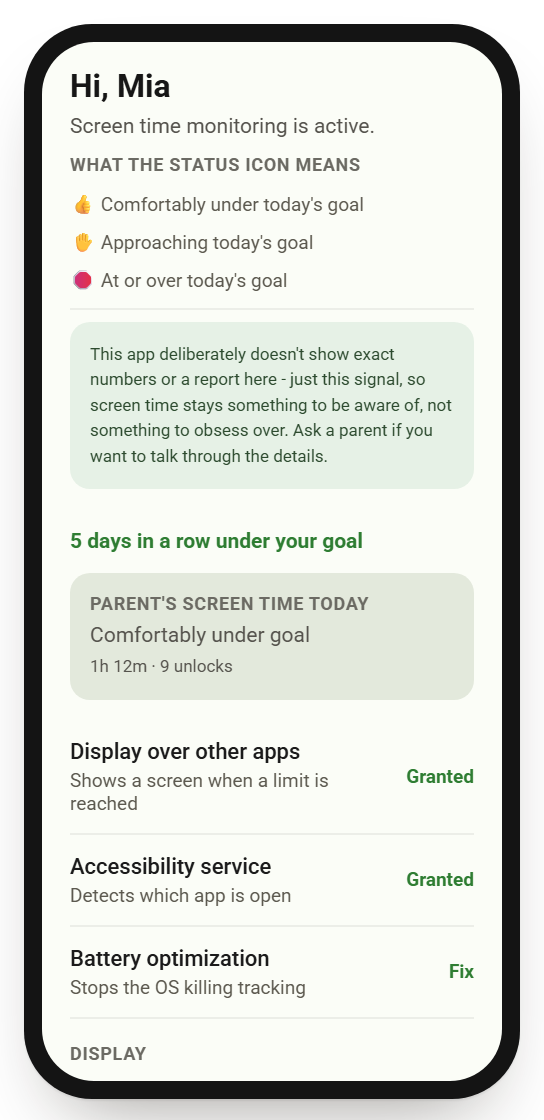
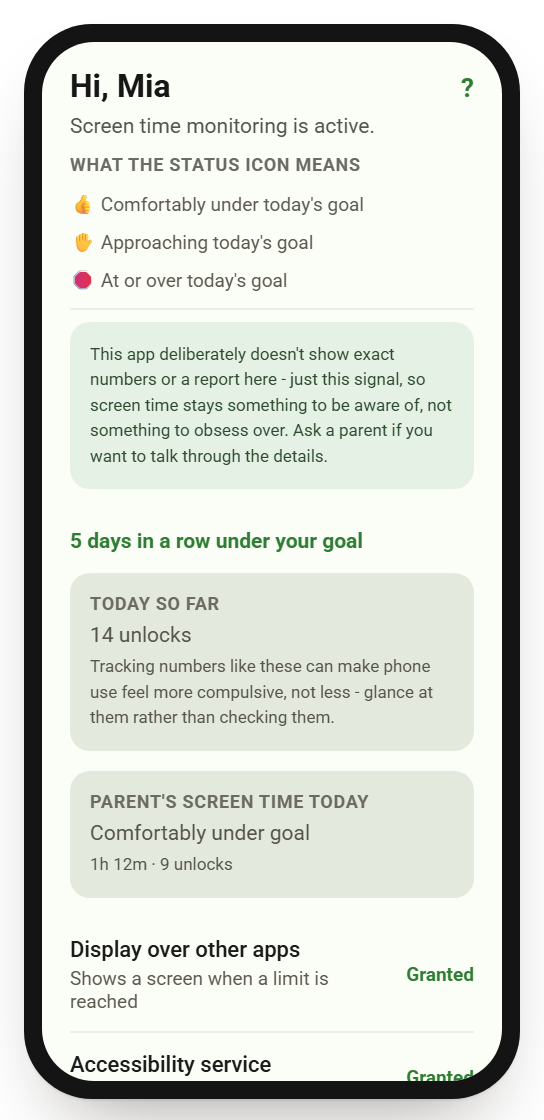
Update the design gallery: help bot, optional tracking, report trends, kid counts (22 screens)
Adds the help bot (kid and parent), the Optional tracking toggles, the
weekly report's unlock/notification/daily-digest sections, the kid's
opt-in 'Today so far' counts card, bedtime calls on Parent controls, the
'?' entry points, and the optional notification-access row on self-tracking.
Two more calm-design principles (opt-in counting; honest cited answers).
Screenshots regenerated (22).

diff --git a/design/screens.html b/design/screens.html
@@ -327,6 +327,21 @@
   .bar-labels { display: flex; gap: 6px; margin-bottom: 10px; }
   .bar-labels span { flex: 1; font-size: 7.5px; color: #8c8878; text-align: center; }
 
+  .m-switch { width: 22px; height: 12px; border-radius: 8px; background: #b9b6a8; position: relative; flex: none; }
+  .m-switch::after { content: ""; position: absolute; top: 1.5px; left: 2px; width: 9px; height: 9px; border-radius: 50%; background: #fff; }
+  .m-switch.on { background: var(--app-primary); }
+  .m-switch.on::after { left: 11px; }
+  .bubble { border-radius: 10px; padding: 8px 9px; font-size: 9.5px; line-height: 1.45; margin-bottom: 7px; max-width: 92%; }
+  .bubble.bot { background: var(--app-surface-variant); color: #2a2820; }
+  .bubble.user { background: var(--app-primary); color: var(--app-on-primary); margin-left: auto; }
+  .bubble .src { display: block; color: var(--app-primary); font-size: 8.5px; margin-top: 3px; }
+  .chips { display: flex; flex-wrap: wrap; gap: 4px; margin: -2px 0 8px; }
+  .chip { border: 1px solid rgba(0,0,0,.2); border-radius: 8px; padding: 3px 7px; font-size: 8.5px; color: #3a382f; }
+  .input-row { display: flex; gap: 6px; align-items: center; margin-top: auto; padding-top: 6px; }
+  .input-row .field { flex: 1; border: 1.2px solid #8a8778; border-radius: 5px; padding: 6px 8px; font-size: 9px; color: #8c8878; }
+  .input-row .send { background: var(--app-primary); color: var(--app-on-primary); border-radius: 14px; padding: 6px 10px; font-size: 9px; font-weight: 600; }
+  .trend-row { margin: 6px 0 2px; }
+  .digest-row { display: flex; justify-content: space-between; font-size: 9px; padding: 2px 0; color: #3a382f; }
   .caption { text-align: left; }
   .screen-name { font-family: var(--font-display); font-weight: 600; font-size: .95rem; margin: 0 0 4px; }
   .screen-desc { font-size: .82rem; color: var(--ink-soft); line-height: 1.5; margin: 0 0 8px; }
@@ -369,7 +384,7 @@
     <p class="lede">
       A reproduction of the two shipped apps' actual Compose UI &mdash; real copy, real component
       states, real <code style="font-family:var(--font-mono);font-size:.92em;">Modifier.testTag</code>
-      identifiers from the codebase, not placeholder text. Nineteen screens across the kid device app
+      identifiers from the codebase, not placeholder text. Twenty-two screens across the kid device app
       and the parent app, shown in their default light theme.
     </p>
     <div class="legend">
@@ -444,6 +459,18 @@
         <p>Parental self-tracking reuses the exact same card, stats, and lock button a kid's profile gets - no separate, easier standard for the adult in the house.</p>
         <div class="p-where">Dashboard &amp; Self tracking</div>
       </div>
+      <div class="principle-card">
+        <div class="p-num">10</div>
+        <h3>Counting is opt-in - and named as a risk</h3>
+        <p>Unlock and notification tracking are off by default, collect nothing until a parent turns them on, and count only (never notification content). If a parent shows a count on the kid's phone, it carries a note that watching counts can feed compulsive checking.</p>
+        <div class="p-where">Child detail, Weekly report &amp; Status</div>
+      </div>
+      <div class="principle-card">
+        <div class="p-num">11</div>
+        <h3>Honest answers, with sources</h3>
+        <p>The help bot is a small offline retriever over a cited knowledge base, not an AI that might invent a health claim. It says so, cites WHO, the Canadian guidelines, the AAP and the UK CMOs, and says plainly when it has no answer.</p>
+        <div class="p-where">Help</div>
+      </div>
     </div>
   </section>
 
@@ -481,7 +508,7 @@
       <div class="screen-card">
         <div class="phone"><div class="phone-inner">
           <div class="body scroll" style="padding-top:12px;">
-            <div class="headline" style="margin-bottom:2px;">Hi, Mia</div>
+            <div style="display:flex;justify-content:space-between;align-items:center;"><div class="headline" style="margin-bottom:2px;">Hi, Mia</div><span class="m-text-btn" style="font-size:13px;">?</span></div>
             <p class="subtext" style="margin-bottom:6px;">Screen time monitoring is active.</p>
             <div class="label-eyebrow" style="margin-top:0;">What the status icon means</div>
             <div class="m-list-item" style="border:none;padding:3px 0;"><div class="sub" style="margin:0;">&#128077; Comfortably under today's goal</div></div>
@@ -491,6 +518,11 @@
               <p class="subtext micro" style="margin:0;">This app deliberately doesn't show exact numbers or a report here - just this signal, so screen time stays something to be aware of, not something to obsess over. Ask a parent if you want to talk through the details.</p>
             </div>
             <p class="subtext tight" style="color:var(--app-primary);font-weight:600;margin-top:8px;">5 days in a row under your goal</p>
+            <div class="card-tint">
+              <div class="label-eyebrow" style="margin:0 0 2px;">Today so far</div>
+              <p class="subtext tight" style="margin:0 0 2px;">14 unlocks</p>
+              <p class="subtext micro" style="margin:0;">Tracking numbers like these can make phone use feel more compulsive, not less - glance at them rather than checking them.</p>
+            </div>
             <div class="card-tint" style="margin-bottom:10px;">
               <div class="label-eyebrow" style="margin:0 0 2px;">Parent's screen time today</div>
               <p class="subtext tight" style="margin:0 0 2px;">Comfortably under goal</p>
@@ -509,8 +541,8 @@
         </div></div>
         <div class="caption">
           <p class="screen-name">Status</p>
-          <p class="screen-desc">Home screen once paired. The icon legend now states outright why only this signal is shown, not exact numbers (#30). A streak line appears only once it's &gt; 0 days, never a broken-streak state (#13). When a parent has opted into self-tracking, their own calm status and numbers show here too (#18) - the arrangement isn't one-directional.</p>
-          <div class="tag-row"><span class="tag">status_greeting</span><span class="tag">status_icon_legend</span><span class="tag">status_streak</span><span class="tag calm">01 calm signal</span></div>
+          <p class="screen-desc">Home screen once paired. The icon legend now states outright why only this signal is shown, not exact numbers (#30). A streak line appears only once it's &gt; 0 days, never a broken-streak state (#13). When a parent has opted into self-tracking, their own calm status and numbers show here too (#18) - the arrangement isn't one-directional. A "?" opens the help bot (#36), and "Today so far" appears only if a parent chose to show a tracked count here (#35), always with its compulsive-checking note.</p>
+          <div class="tag-row"><span class="tag">status_greeting</span><span class="tag">status_icon_legend</span><span class="tag">status_streak</span><span class="tag">status_tracking_counts</span><span class="tag calm">01 calm signal</span><span class="tag calm">10 counting is opt-in</span></div>
         </div>
       </div>
 
@@ -553,6 +585,10 @@
             <div class="m-btn-outline full">Change daily limit</div>
             <p class="subtext tight">Bedtime: 9:00 PM - 7:00 AM</p>
             <div class="m-btn-outline full">Change bedtime</div>
+            <div class="label-eyebrow">Bedtime calls</div>
+            <p class="subtext micro" style="margin:0 0 4px;">During bedtime, only the numbers below can call or text. Texts are muted, not fully blocked.</p>
+            <div class="m-list-item"><div class="head">+1 555 123 4567</div><div class="trailing">Remove</div></div>
+            <div class="m-btn-outline full" style="padding:7px 16px;">Turn on incoming-call blocking</div>
             <div class="label-eyebrow">Uninstall protection</div>
             <p class="subtext micro" style="margin:0 0 6px;">Off. Turning this on adds a warning before OpenScreenTime can be removed - a clear signal to ask a parent first.</p>
             <div class="m-btn-outline full" style="padding:7px 16px;">Turn on</div>
@@ -563,7 +599,7 @@
         </div></div>
         <div class="caption">
           <p class="screen-name">Parent controls</p>
-          <p class="screen-desc">Reached only after the passcode unlock. Now includes bedtime editing, a pending "more time" request (#23), uninstall protection (#31), and an "always allow" checkbox per app (#28) alongside its minute limit - all mirroring the parent app's own ChildDetailScreen.</p>
+          <p class="screen-desc">Reached only after the passcode unlock. Now includes bedtime editing, a pending "more time" request (#23), uninstall protection (#31), bedtime calls with an allowed-numbers list (#34), and an "always allow" checkbox per app (#28) alongside its minute limit - all mirroring the parent app's own ChildDetailScreen.</p>
           <div class="tag-row"><span class="tag">ParentControlsScreen.kt</span></div>
         </div>
       </div>
@@ -629,6 +665,26 @@
         </div>
       </div>
 
+      <!-- 8. Help (kid) -->
+      <div class="screen-card">
+        <div class="phone"><div class="phone-inner">
+          <div class="appbar"><span class="title">Help</span><span class="action">BACK</span></div>
+          <div class="body">
+            <div class="bubble bot">Ask me anything about how to use this app or what are reasonable limits for screen time.</div>
+            <div class="chips"><span class="chip">What do the status icons mean?</span><span class="chip">How do I ask for more time?</span><span class="chip">Why can't I see my exact numbers?</span></div>
+            <div class="bubble user">why can't i see my numbers</div>
+            <div class="bubble bot">Deliberately. A running number invites checking, and compulsive checking is the behavior this app is trying not to feed. So the kid app only shows the calm icon, and the detailed report stays with the parent.</div>
+            <div class="input-row"><span class="field">Ask a question</span><span class="send">Send</span></div>
+            <p class="subtext micro" style="margin:4px 0 0;">Answers come from a fixed, cited knowledge base - not AI - and nothing you type leaves this phone.</p>
+          </div>
+        </div></div>
+        <div class="caption">
+          <p class="screen-name">Help (kid)</p>
+          <p class="screen-desc">The "?" on the kid's home screen (#36). A chat-shaped front for a small offline matcher over a curated knowledge base - not an AI model - so nothing a child types leaves the phone. Kids never get parent-only setup answers.</p>
+          <div class="tag-row"><span class="tag">HelpBotScreen.kt</span><span class="tag">help_input</span><span class="tag calm">11 honest answers</span></div>
+        </div>
+      </div>
+
     </div>
   </section>
 
@@ -679,7 +735,7 @@
       <!-- 10. Dashboard -->
       <div class="screen-card">
         <div class="phone"><div class="phone-inner" style="position:relative;">
-          <div class="appbar"><span class="title">Manage Your Screen Time</span><div class="actions"><span class="action">&#8942;</span></div></div>
+          <div class="appbar"><span class="title">Manage Your Screen Time</span><div class="actions"><span class="action">?</span><span class="action">&#8942;</span></div></div>
           <div class="body scroll">
             <div class="card-tint" style="border-left:3px solid var(--app-primary);">
               <div style="font-size:11px;font-weight:600;margin-bottom:2px;">Off-screen idea</div>
@@ -711,7 +767,7 @@
         </div></div>
         <div class="caption">
           <p class="screen-name">Dashboard</p>
-          <p class="screen-desc">Header retitled from "Your children" for clarity (#27); four separate top-bar actions collapsed into one "&#8942;" menu (Style / Passcode / Feedback / Sign out). The parent's own self-tracking card now shows live numbers directly here, reusing the exact same card as a kid's (#27, #18) &mdash; walking the walk, not just saying it.</p>
+          <p class="screen-desc">Header retitled from "Your children" for clarity (#27); four separate top-bar actions collapsed into one "&#8942;" menu (Style / Passcode / Feedback / Sign out), next to a "?" that opens the help bot (#36). The parent's own self-tracking card now shows live numbers directly here, reusing the exact same card as a kid's (#27, #18) &mdash; walking the walk, not just saying it.</p>
           <div class="tag-row"><span class="tag">dashboard_add_child</span><span class="tag">dashboard_child_lock_toggle</span><span class="tag calm">09 walk the walk</span></div>
         </div>
       </div>
@@ -790,6 +846,28 @@
         </div>
       </div>
 
+      <!-- 13b. Optional tracking -->
+      <div class="screen-card">
+        <div class="phone"><div class="phone-inner">
+          <div class="appbar"><span class="title">Mia</span><span class="action">BACK</span></div>
+          <div class="body scroll">
+            <div class="label-eyebrow" style="margin-top:0;">Optional tracking</div>
+            <p class="subtext micro" style="margin:0 0 6px;">Off by default - nothing is collected until you turn a category on. Each one adds to the weekly report and its daily digest.</p>
+            <div class="m-list-item"><div><div class="head">Track unlocks</div><div class="sub">Adds which app is opened first after each unlock.</div></div><span class="m-switch on"></span></div>
+            <div class="m-list-item"><div><div class="head">Show unlocks on Mia's phone</div><div class="sub">Off by default.</div></div><span class="m-switch"></span></div>
+            <div class="m-list-item"><div><div class="head">Track notification counts</div><div class="sub">Counts only, never content. Needs notification access on the device.</div></div><span class="m-switch on"></span></div>
+            <div class="m-list-item"><div><div class="head">Show notification counts on Mia's phone</div><div class="sub">Off by default.</div></div><span class="m-switch"></span></div>
+            <p class="subtext micro" style="margin-top:6px;">If shown, they'll see: "Tracking numbers like these can make phone use feel more compulsive, not less - glance at them rather than checking them."</p>
+          </div>
+        </div></div>
+        <div class="caption">
+          <p class="screen-name">Optional tracking</p>
+          <p class="screen-desc">New (#35), on Child detail - the same four switches serve a kid and the parent's own "My screen time" profile. Categories are off by default, and the "show on their phone" options only appear once tracking is on.</p>
+          <div class="tag-row"><span class="tag">ChildDetailScreen.kt</span><span class="tag calm">10 counting is opt-in</span></div>
+        </div>
+      </div>
+
+
       <!-- 14. Weekly report -->
       <div class="screen-card">
         <div class="phone"><div class="phone-inner">
@@ -824,6 +902,32 @@
           <div class="tag-row"><span class="tag">WeeklyReportScreen.kt</span><span class="tag calm">07 short window</span><span class="tag calm">08 nudges the parent</span></div>
         </div>
       </div>
+
+      <!-- 14b. Weekly report: unlocks & notifications -->
+      <div class="screen-card">
+        <div class="phone"><div class="phone-inner">
+          <div class="appbar"><span class="title">Mia report</span><span class="action">BACK</span></div>
+          <div class="body scroll">
+            <div class="label-eyebrow" style="margin-top:0;">Unlocks</div>
+            <p class="subtext tight" style="margin:0 0 2px;">Weekly total: 142 this week</p>
+            <div class="bar-chart" style="height:34px;"><div class="bar secondary" style="height:60%"></div><div class="bar secondary" style="height:75%"></div><div class="bar secondary" style="height:55%"></div><div class="bar secondary" style="height:100%"></div></div>
+            <p class="subtext micro" style="margin:2px 0 2px;">Opened first after unlocking - top apps, oldest to newest</p>
+            <div class="trend-row"><div style="font-size:10px;">TikTok</div><div class="bar-chart" style="height:22px;margin:2px 0;"><div class="bar" style="height:30%"></div><div class="bar" style="height:50%"></div><div class="bar" style="height:60%"></div><div class="bar" style="height:100%"></div></div></div>
+            <div class="label-eyebrow">Notifications</div>
+            <p class="subtext micro" style="margin:0 0 2px;">By app - top apps, oldest to newest</p>
+            <div class="trend-row"><div style="font-size:10px;">Group chat</div><div class="bar-chart" style="height:22px;margin:2px 0;"><div class="bar" style="height:45%"></div><div class="bar" style="height:40%"></div><div class="bar" style="height:70%"></div><div class="bar" style="height:100%"></div></div></div>
+            <div class="label-eyebrow">Daily digest</div>
+            <div class="digest-row"><span>Thu, Sep 17</span><span>23 unlocks &middot; 41 notifications</span></div>
+            <div class="digest-row"><span>Wed, Sep 16</span><span>19 unlocks &middot; 33 notifications</span></div>
+          </div>
+        </div></div>
+        <div class="caption">
+          <p class="screen-name">Weekly report: unlocks &amp; notifications</p>
+          <p class="screen-desc">The report's optional sections (#35, #37), shown only for categories a parent turned on: weekly totals, a 4-week trend per app for what's opened first after unlocking and what sends the most notifications, and a day-by-day digest.</p>
+          <div class="tag-row"><span class="tag">WeeklyReportScreen.kt</span><span class="tag calm">10 counting is opt-in</span></div>
+        </div>
+      </div>
+
 
       <!-- 15. Passcode settings -->
       <div class="screen-card">
@@ -876,6 +980,7 @@
             <div class="m-list-item"><div><div class="head">Display over other apps</div></div><div class="trailing granted">Granted</div></div>
             <div class="m-list-item"><div><div class="head">Accessibility service</div></div><div class="trailing granted">Granted</div></div>
             <div class="m-list-item"><div><div class="head">Battery optimization</div></div><div class="trailing">Fix</div></div>
+            <div class="m-list-item"><div><div class="head">Notification access (optional)</div><div class="sub">Only for notification-count tracking. Counts only.</div></div><div class="trailing">Fix</div></div>
             <div style="flex:1;"></div>
             <div class="m-btn full">View my screen time</div>
             <div class="m-btn-outline full">Stop tracking my screen time</div>
@@ -885,6 +990,26 @@
           <p class="screen-name">Self tracking</p>
           <p class="screen-desc">Opt-in parental self-tracking (#8) &mdash; the core mechanic behind the "diametrical opposite of an addiction machine" goal. Once started, "View my screen time" reuses Child detail (and its weekly report) for the parent's own profile, unchanged from a kid's.</p>
           <div class="tag-row"><span class="tag">SelfTrackingScreen.kt</span><span class="tag calm">09 walk the walk</span></div>
+        </div>
+      </div>
+
+      <!-- 17b. Help (parent) -->
+      <div class="screen-card">
+        <div class="phone"><div class="phone-inner">
+          <div class="appbar"><span class="title">Help</span><span class="action">BACK</span></div>
+          <div class="body">
+            <div class="bubble bot">Ask me anything about how to use this app or what are reasonable limits for screen time.</div>
+            <div class="chips"><span class="chip">How much screen time is reasonable for my child?</span><span class="chip">How do I set a bedtime?</span></div>
+            <div class="bubble user">screen time for my 4 year old</div>
+            <div class="bubble bot">The WHO advises no more than 1 hour a day of sedentary screen time for ages 2 to 4, and adds that less is better. General guidance, not medical advice.<span class="src">Source: WHO: children under 5 (2019)</span></div>
+            <div class="input-row"><span class="field">Ask a question</span><span class="send">Send</span></div>
+            <p class="subtext micro" style="margin:4px 0 0;">Answers come from a fixed, cited knowledge base - not AI - and nothing you type leaves this phone.</p>
+          </div>
+        </div></div>
+        <div class="caption">
+          <p class="screen-name">Help (parent)</p>
+          <p class="screen-desc">The "?" on the dashboard (#36): how-to answers, the design philosophy, and cited public screen-time guidance (WHO, Canadian 24-Hour Movement Guidelines, AAP, UK CMOs), age-aware. Sources are tappable; it says plainly when it has no answer.</p>
+          <div class="tag-row"><span class="tag">HelpBotScreen.kt</span><span class="tag">dashboard_help</span><span class="tag calm">11 honest answers</span></div>
         </div>
       </div>
 
@@ -914,7 +1039,7 @@
     Reproduced from the live Jetpack Compose source in <code style="font-family:var(--font-mono);">kid/src/main/java/.../ui</code>
     and <code style="font-family:var(--font-mono);">parent/src/main/java/.../ui</code> &mdash; component shapes, copy, and color
     values match the running app; pixel-exact Material 3 tonal-palette shading is approximated. All names, codes, and figures
-    on this page are illustrative examples, not real account data. iOS parity for the weekly report is not yet built.
+    on this page are illustrative examples, not real account data. iOS has the help bot and the tracking switches but not the weekly report.
   </footer>
 
 </div>

diff --git a/README.md b/README.md
@@ -41,9 +41,13 @@ own phone, real screenshots to replace it are a very welcome contribution.
 
 | Parent: dashboard | Parent: child detail | Parent: weekly report |
 | :---: | :---: | :---: |
-| <img src="design/screenshots/parent-03-dashboard.png" width="220" alt="Parent dashboard"> | <img src="design/screenshots/parent-06-child-detail.png" width="220" alt="Parent child detail"> | <img src="design/screenshots/parent-07-weekly-report.png" width="220" alt="Parent weekly report"> |
+| <img src="design/screenshots/parent-03-dashboard.png" width="220" alt="Parent dashboard"> | <img src="design/screenshots/parent-06-child-detail.png" width="220" alt="Parent child detail"> | <img src="design/screenshots/parent-08-weekly-report.png" width="220" alt="Parent weekly report"> |
 
-All 18 screens are in [`design/screenshots/`](design/screenshots/), rendered from
+| Parent: optional tracking | Parent: unlocks and notifications | Help bot |
+| :---: | :---: | :---: |
+| <img src="design/screenshots/parent-07-optional-tracking.png" width="220" alt="Parent optional tracking toggles"> | <img src="design/screenshots/parent-09-weekly-report-unlocks-notifications.png" width="220" alt="Weekly report unlocks and notifications"> | <img src="design/screenshots/parent-13-help-parent.png" width="220" alt="Help bot"> |
+
+All 22 screens are in [`design/screenshots/`](design/screenshots/), rendered from
 the gallery above.
 
 ## How it works
